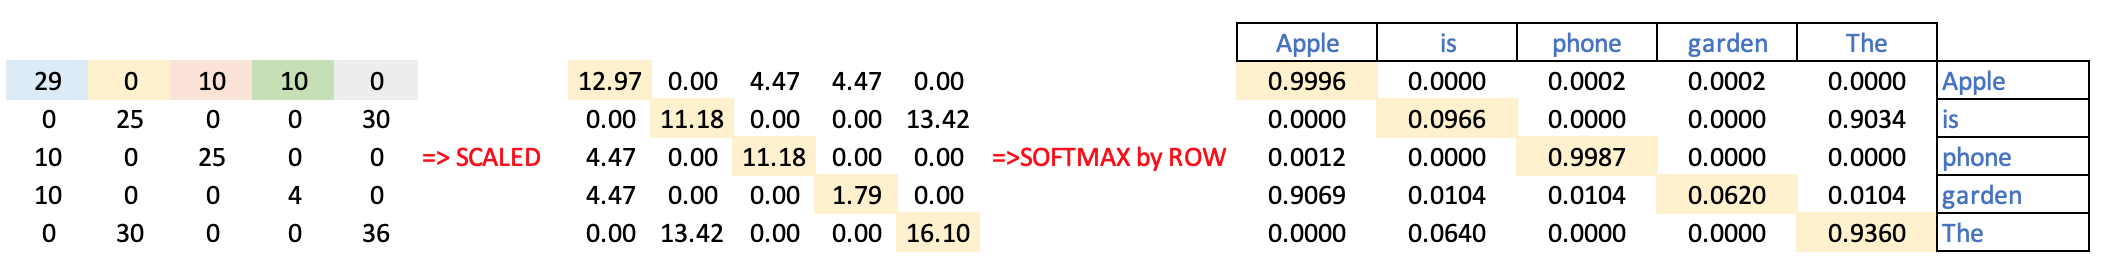
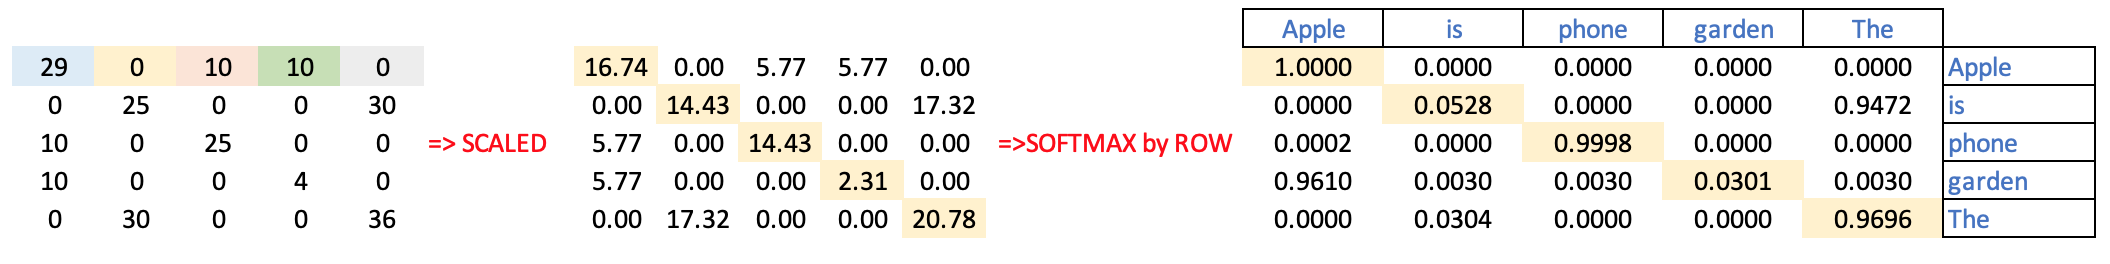
Type correction for self-attention

diff --git a/Transformers/attention.md b/Transformers/attention.md
@@ -1,33 +1,36 @@
-# Attention mechanism explained from zero.
+# Self-Attention mechanism for Transformers explained.
 
 Embedding is widely known technics to compress long vector of features into a much smaller vector of a fixed size. 
 
 For exmaple, being in NLP domain we can imagine we need to compare how one piece of text is simiar to another. 
-The common technic for that is Bag Of Words (BofW) when we simply count how name of every particular words there in yhi text and then boil down text into one dimensional vector of lenths equal to vocabulary (list of all possible words) and adding a number of words to an apprprite position in this vector.
+The common technic to represent a text in machine learning is Bag Of Words (BofW). The idea is to simply count words in the text and then represent this text as one-dimensional vector of lenths equal to vocabulary (list of all possible words) and adding a number of words to an apprprite position in this vector.
 
-It is easy to imagine that the lenth of such vector might easy be 10000 or so, that makes operation on this vector not so convinient. On top of that each text might have a different number of words, so vector will have different size which will make impossible the distance calculation etc.
-By opration is usually mean a distance (similarity) calculation and embeddings have a nice property of similar by meaning words are close to each other, it is actually a third important property of embedding vectors
+It is easy to imagine that the lenth of such vector might easy be 10000 or so (since potentially might be 10000 english words)  , that makes operation on this vector not so convinient. On top of that each texts might have different number of words, so vector might potentially have different size which will make hard to calculate the distance.
+One of manipulation we might do with those vectors is a distance (similarity) calculation and embeddings have a nice property of similar by meaning words are close to each other, it is actually a third important property of embedding vectors
 
-So, it would make sence first, to make then a fixed size and second reduce that size to lest say 512 or 256. 
+So, it would make sence make them fixed in size and reduce that size to some asseptable valuelest say 512 or 256. 
 
-That operation of reducsing (compressing) size is called embedding and result in vectors of fixed size.
+That operation of representing long vector with shorter one is called embedding and result in vectors of fixed size.
+
 There are many technics to create embeddings, for example
 - Word2Vec
 - Matrix Factorization
 - GloVe
 - etc
 
-But they all are kind of "fixed" embeddings, so once we have text сщкзгы and calculated embedding for every single word in a text they are fixed, we are not changing it. 
+But they all are kind of "fixed" embeddings, so once we have text and calculated embedding for every single word in a text they are fixed, we are not changing it. 
 
 But in reality the meaning of the word might be sligtly changing depending on context. For example the meaning of apple in context of fruits is different from apple in context of mobile phone vendors.
 
-Attention is exactly mechanizm to  solve this problem of variation of embedding depending on context.
+Attention is exactly mechanism to  solve this problem of variation of embedding depending on context.
 
 Lets furure out how it works step by step
 
 ## Start: initial embeddings
 For example we have a sentence of 5 words.
-Lets assume we already have embeddings for all these five words and lets imagine the length of these embeddings is 3. So we have an embedding matrix like this
+Lets assume we already have embeddings for all these five words. They might be calculated by some methods above or even have a random initial values and supposed to be trained later. But out assumptions that those embeddings already reflect some relationships between these words, for example the similarity between apple and garden is higher then between apple and phone.
+Lets imagine now that  the length of these embeddings is 3. 
+So we have an embedding matrix like this
 
 ![Initial embeddings table](img/emb1.png)
 
@@ -36,22 +39,28 @@ Lets assume we already have embeddings for all these five words and lets imagine
 the next step will be to understand dependencies between every word in our sentence. Since we have 5 words in our current sentence what we can do is to calculate pairwise similarities between all words.
 
 The simpliest way to define a similarity is a dot-product. For example if we have three vectors,
+
 a = [1  0 0]
+
 b = [0 10 2]
+
 c = [2  0 2]
 
-It is obvios that according to dot product similarity the A vector is highly similar to itself 
+It is obvios that according to dot product similarity the A vector is highly similar to itself
+
 dot(a,a) = 1*1 +0*0 + 0*0 = 1
 
 A is more similar to C then to B becuase A and B have a similar first feature 
+
 dot(a,b) = 1*0 + 0*0 + 0*2 = 0
+
 dot(a,c) = 1*2 + 0*0 + 0*2 = 2
 
-A nice way to calculase all pairwise similarities at once for all words is to multiply the whole embedding matrix bu itself. 
+A nice way to calculase all pairwise similarities at once for all words is to multiply the whole embedding matrix by itself. 
 
-In attention paradigm those two matrices are called K (keyes) and Q (queries) but in fact it is the same matrix. I can speculate that the idea behind this names was like we call every word a Key and Query it with every word for similarity, but this is just a speculation
+In attention paradigm those two matrices are called **K (keyes)** and **Q (queries)** but in fact it is the same matrix. I can speculate that the idea behind this names was like we call every word a Key and Query it with every word for similarity, but this is just a speculation
 
-So, we can nicely write this multiplication as 
+So, we can nicely write this matrix multiplication as 
 
 Q*K^T
 
@@ -59,20 +68,20 @@ or vizualize it as follows
 ![Pairwise similarity matrix](img/pairwise.png)
 
 
-## Similarity technical tricks, scaled and softmax normalized
+## Technical tricks: scaled and softmax normalized similarity
 
-The dot-product similary has one drawback, it havily influenced by absolute values of features and by length of embedding vectros to compare. 
+The dot-product similary has one drawback, it havily influenced by absolute values of features and by length of embedding vectors to compare. 
 To partially aleviate this issue a scaled dot-product is used.
 
 Scaled dot product is nothing more them regular dot product but diveded by square root of length od embedding. So it because less dependent on length of embedding vector itself.
 
 In our case we have embeddings of dimension 3 and the similarity between Apple and Apple are
 
-(apple, apple) = (5*5 + 2*2 + 0*0) / sqrt(3) = 16.7
+(apple, apple) = (5 * 5 + 2 * 2 + 0 * 0) / sqrt(3) = 16.74
 
 and much less between apple and phone
 
-(apple, phone) = (5*0 + 2*5 + 0*0) / sqrt(3) = 5.8
+(apple, phone) = (5 * 0 + 2 * 5 + 0 * 0) / sqrt(3) = 5.77
 
 note that we divide by square root of embedding dimensions length because embeddings are usually a pretty long vector, it might be 512 or 1024, so the dot product tends to be very large in this case, we we kind of scale down those similariry numbers to make it more tracktable
 
@@ -84,29 +93,44 @@ note that softmax is applied across each row, not column because
 - This results in the attention scores across the key dimension summing to 1 for each query. Effectively, it means "how much attention" each query pays to all the other tokens in the sequence.
 
 so we can summarize all above in this matrix formula
+
 ![Calculation scaled dot-product similarity matrix normalized by softmax](img/softmax_mult.png)
 
 or vizualized
 
 ![scaled dot-product with softmax vizualization](img/pairwise_scaled.png)
 
-Note that matrix is not symmetric in contrast to pairwise similarity matrix because
-The resulting matrix does not have to be symmetric. In fact, it often won’t be symmetric in the general attention mechanism because the relationship between tokens is usually asymmetric. For example, one word might attend more to another than vice versa, depending on the context.
+Note that matrix is not symmetric in contrast to pairwise similarity matrix. 
+The resulting matrix does not have to be symmetric. In fact, it often won’t be symmetric in the general attention mechanism because the relationship between words(tokens) is usually asymmetric. For example, one word might attend more to another than vice versa, depending on the context.
 
 
 ## Generate many different embeddings based on initial one
-As I previously mentioned the embedding for each word might might vary depending on a sentence. But adjusting embeddings via training is very costly process. We might use some tricks to generate such new slightly modified embeddings via lenes transformations such that it accounts for the sentence context somehow.
+As I previously mentioned the embedding for each word might might vary depending on a sentence. But adjusting embeddings via training is very costly process. We might use some tricks to generate such new slightly modified embeddings via linear transformations such that it accounts for the sentence context somehow.
 
 Namely we can use similarity information between all words (calculated above) to make these new embeddings somehow meaningful.
 
-So, thr idea behind this is as follows.
+So, the idea behind this is as follows.
 - We have an initial embedding for Apple 
 - we can calculate new embedding for Apple as a sum of embeddings of all the other words in the sentence but weighed by the similarity of Apple with each of the word
 
 For example, for Apple = [5 2 0] we can calculate a new embedding (based on a given sentence) as follows
 
-new Apple embedding = Apple[5 2 0] * sim(Apple, Apple) + is[0 0 5]* sim(Apple, is) + phone[0 5 0]* sime(Apple, phone) + The[0 0 6]* sim(Apple, the) 
+new Apple embedding = 
 
+  - Apple[5 2 0] * sim(Apple, Apple) + 
+  - is[0 0 5] * sim(Apple, is) + 
+  - phone[0 5 0] * sim(Apple, phone) + 
+  - The[0 0 6] * sim(Apple, the) 
+=
+  - Apple[5 2 0] * 1 +
+  - is[0 0 5] * 0 +
+  - phone[0 5 0] * 0.0002 + 
+  - The[0 0 6] * 0
+= [5 2 0] + [0 0.001 0] = [5 2.001 0]
+
+That operation will generate a new apple embedding which will encorporate information about all word in this sentence, saying for example that Apple is used in the same sentence with garden and phone.
+
+![Full attention formula](img/attention.png)
 
 
 
